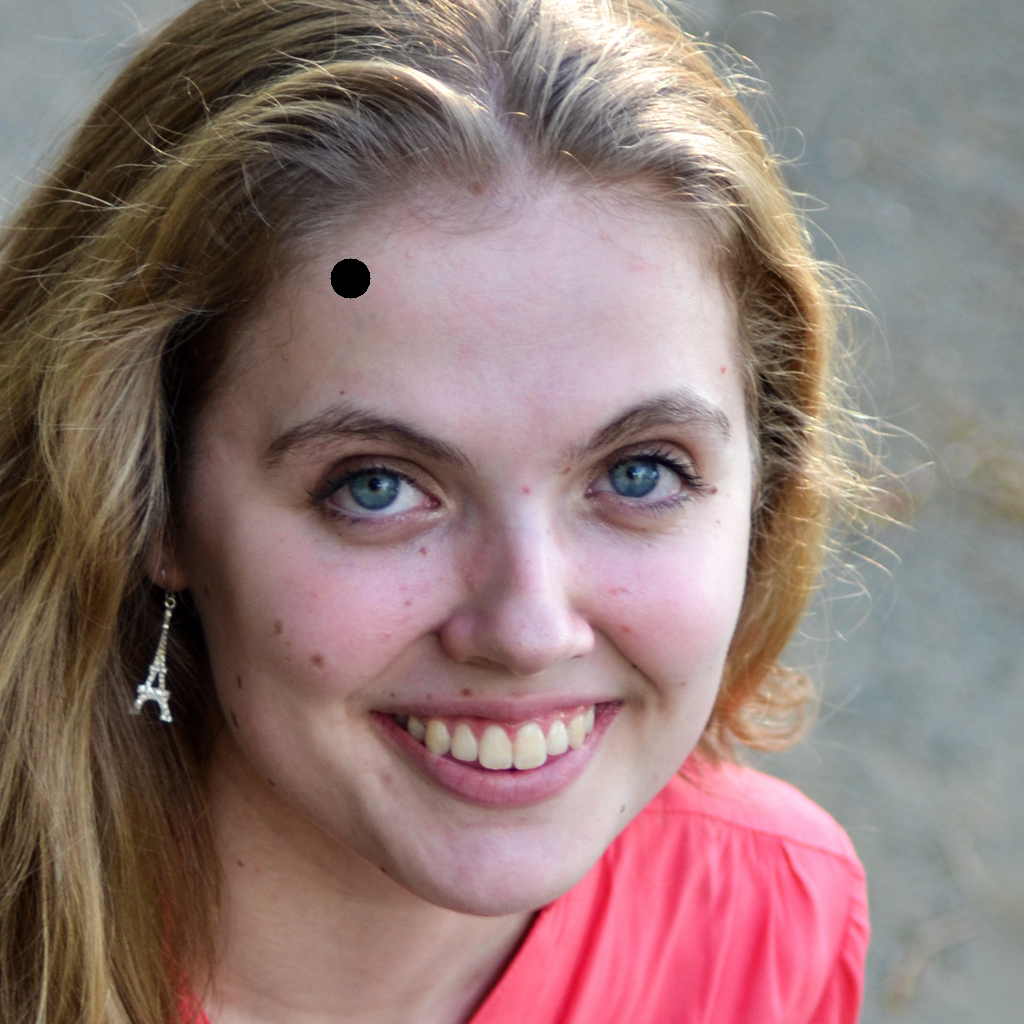
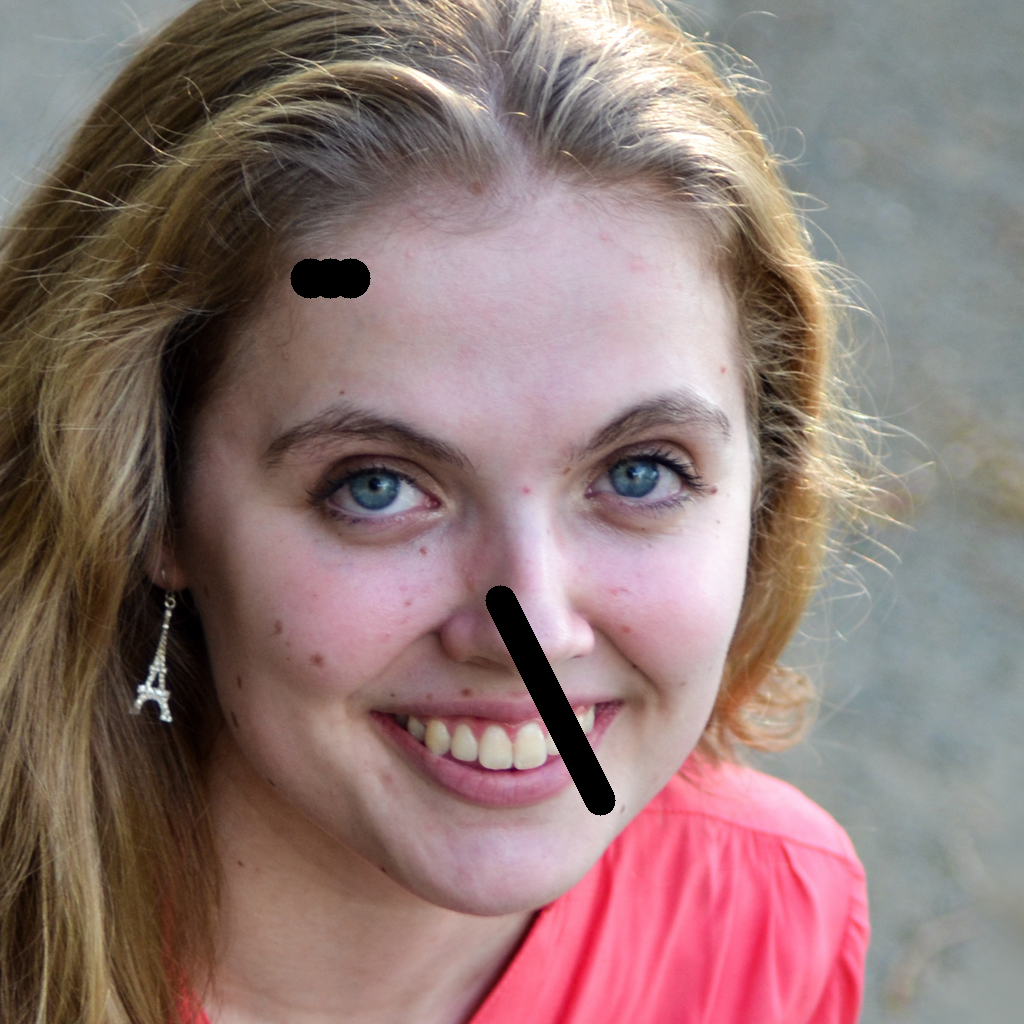
adjust line mask

Changed region(s): [[0.4688, 0.5625, 0.5938, 0.8125], [0.2812, 0.25, 0.3438, 0.3125]]

diff --git a/export-tf-onnx.py b/export-tf-onnx.py
@@ -79,6 +79,9 @@ def test_with_image(model,OUT_NAME,dtype = torch.float32):
                 # img_L = cv2.line(img_L,pt1 = (700, 500), pt2 = (800, 300),
                 #             color = (0, 0, 0),thickness = random.randint(5,20))
                 img_L =  cv2.circle(img_L,center = (350, 278),radius = 20,color = (0, 0, 0),thickness = -1)
+                img_L =  cv2.circle(img_L,center = (330, 278),radius = 20,color = (0, 0, 0),thickness = -1)
+                img_L =  cv2.circle(img_L,center = (310, 278),radius = 20,color = (0, 0, 0),thickness = -1)
+                img_L = cv2.line(img_L,pt1 = (500, 600), pt2 = (600, 800),color = (0, 0, 0),thickness = 30)
                 util.imsave(img_L, os.path.join('testsets/exported', 'input'+'.png'))
             
                 if(np.shape(img_L)[0] < 1055 and np.shape(img_L)[1] < 1055):
@@ -98,7 +101,7 @@ def test_with_image(model,OUT_NAME,dtype = torch.float32):
 
 
 #LOAD TORCH MODEL
-toch_model_path = os.path.join('checkpoints/face_net_checkpoints', 'checkpoint_baseepoch_61.pth')
+toch_model_path = "/home/anis/Desktop/AI/MultiSPE/checkpoints/face_net_checkpoints/previous_checkpoits/checkpoint_baseepoch_63.pth"#"/home/anis/Desktop/AI/MultiSPE/checkpoints/face_net_checkpoints/checkpoint_base_epoch_19.pth"#os.path.join('checkpoints/face_net_checkpoints', 'checkpoint_base_epoch_19.pth')
 torch_model = FaceNet()
         
 #torch_model = architecture.IMDN(upscale=4)

diff --git a/data/face_transforms.py b/data/face_transforms.py
@@ -208,16 +208,20 @@ class AddMaskFace(object):
 
     def line(self,image):
         offset = int(self.output_size / 9)
-        s_h = randint(offset,self.output_size-offset)
-        s_w = randint(offset,self.output_size-offset)
-        e_h = randint(s_h,self.output_size-offset)
-        e_w = randint(s_w,self.output_size-offset)
+        threshold = int(self.output_size / 5)
+        line_dim = 50000;
+        while(line_dim > threshold):
+            s_h = randint(offset,self.output_size-offset)
+            s_w = randint(offset,self.output_size-offset)
+            e_h = randint(s_h,self.output_size-offset)
+            e_w = randint(s_w,self.output_size-offset)
+            line_dim = np.sqrt((s_h - e_h)**2 + (s_w - e_w)**2)
 
         img_masked = cv2.line(
             image,
             pt1 = (s_w, s_h), pt2 = (e_w, e_h),
             color = (255, 255, 255),
-            thickness = randint(5,20))
+            thickness = randint(5,30))
         return img_masked    
     
     def rectangle(self,image):

diff --git a/data/dataloader.py b/data/dataloader.py
@@ -126,7 +126,10 @@ class AnimeDataSet(Dataset):
 
 
         if(len(self.anime_Images) != len(self.origin_Images)):
-            print("data and origin folder does not have the same size")     
+        
+            print("data and origin folder does not have the same size")  
+            print("anime",len(self.anime_Images))
+            print("origin",len(self.origin_Images))   
 
         self.transform = transform
 

diff --git a/data/anime_transform.py b/data/anime_transform.py
@@ -194,4 +194,4 @@ class AnimeToTensor(object):
         # print("img_L",img_L.shape)
         # print("img_H",img_H.shape)
 
-        return {'img_A': img_A, 'img_O': img_O}         
+        return {'img_H': img_A, 'img_L': img_O}         
